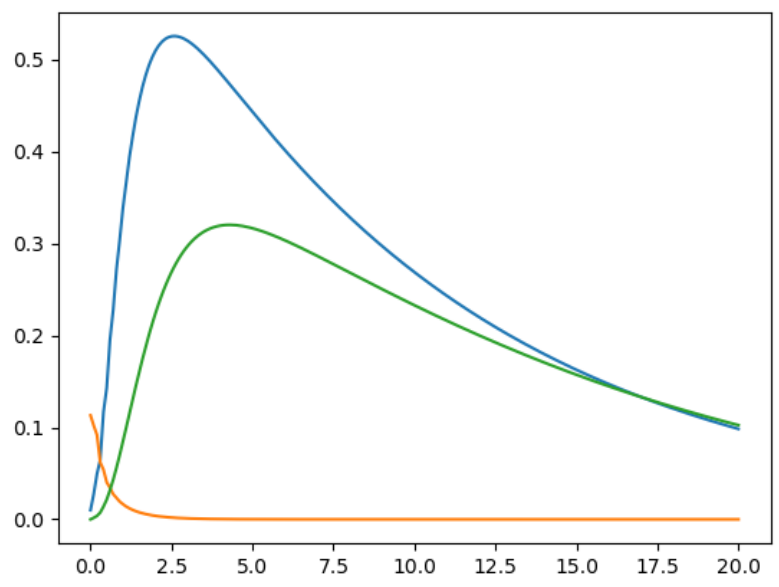
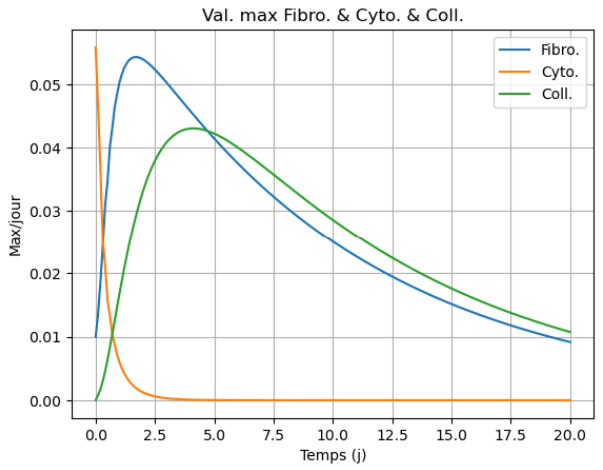
Add files via upload

Changed region(s): [[0.0, 0.0, 1.0, 0.983], [0.2388, 0.7149, 0.2687, 0.7447], [0.2388, 0.566, 0.2687, 0.5957]]

diff --git a/Finite Difference/2D/cyto_fibro_reac_diff__finit_diff_2D.py b/Finite Difference/2D/cyto_fibro_reac_diff__finit_diff_2D.py
@@ -45,7 +45,7 @@ chi_coll = 1e-10
 
 #%%
 def cyto(x:float, y:float, N)->float:
-    return 1.13e-1
+    return (x*(1-x)+y*(1-y))*1.13e-1
 
 def cyto_init(x:list,y:list,rho:float):
     x0, y0 = len(x) // 2, len(y) // 4
@@ -156,11 +156,16 @@ if(is_cfl(lbda_C) and is_cfl(lbda_F) and is_cfl(lbda_Coll)):
         Coll += dt*coll_reac(Coll, F, coll_prod, coll_death, coll_sat, N, dx)
         Coll_norm.append(np.max(Coll))
         
-        print("Iteration ", i)
-        print("F has a negative value : ", is_negative(F))
-        print("C has a negative value : ", is_negative(C))
-        print("Coll has a negative value : ", is_negative(Coll))
-        print("\n")
+        if (is_negative(C) or is_negative(F) or is_negative(Coll)):
+            print("Iteration ", i, "day ", day)
+            print("F has a negative value : ", is_negative(F))
+            print("C has a negative value : ", is_negative(C))
+            print("Coll has a negative value : ", is_negative(Coll))
+            print("Min of C : ", np.min(C))
+            print("Min of F : ", np.min(F))
+            print("Min of Coll : ", np.min(Coll))
+            print("\n")
+        
         
         # Création de la figure avec deux sous-graphes côte à côte
         fig = plt.figure(figsize=(10, 10))
@@ -194,8 +199,13 @@ if(is_cfl(lbda_C) and is_cfl(lbda_F) and is_cfl(lbda_Coll)):
         #plt.pause(0.1)
         plt.show()
         
-plt.plot(t, F_norm, label='F_norm')
-plt.plot(t, C_norm, label='C_norm')
-plt.plot(t, Coll_norm, label='Coll_norm')
+plt.plot(t, F_norm, label='Fibro.')
+plt.plot(t, C_norm, label='Cyto.')
+plt.plot(t, Coll_norm, label='Coll.')
+plt.xlabel("Temps (j)")
+plt.ylabel("Max/jour")
+plt.title("Val. max Fibro. & Cyto. & Coll.")
+plt.legend()
+plt.grid()
 plt.show()
     
